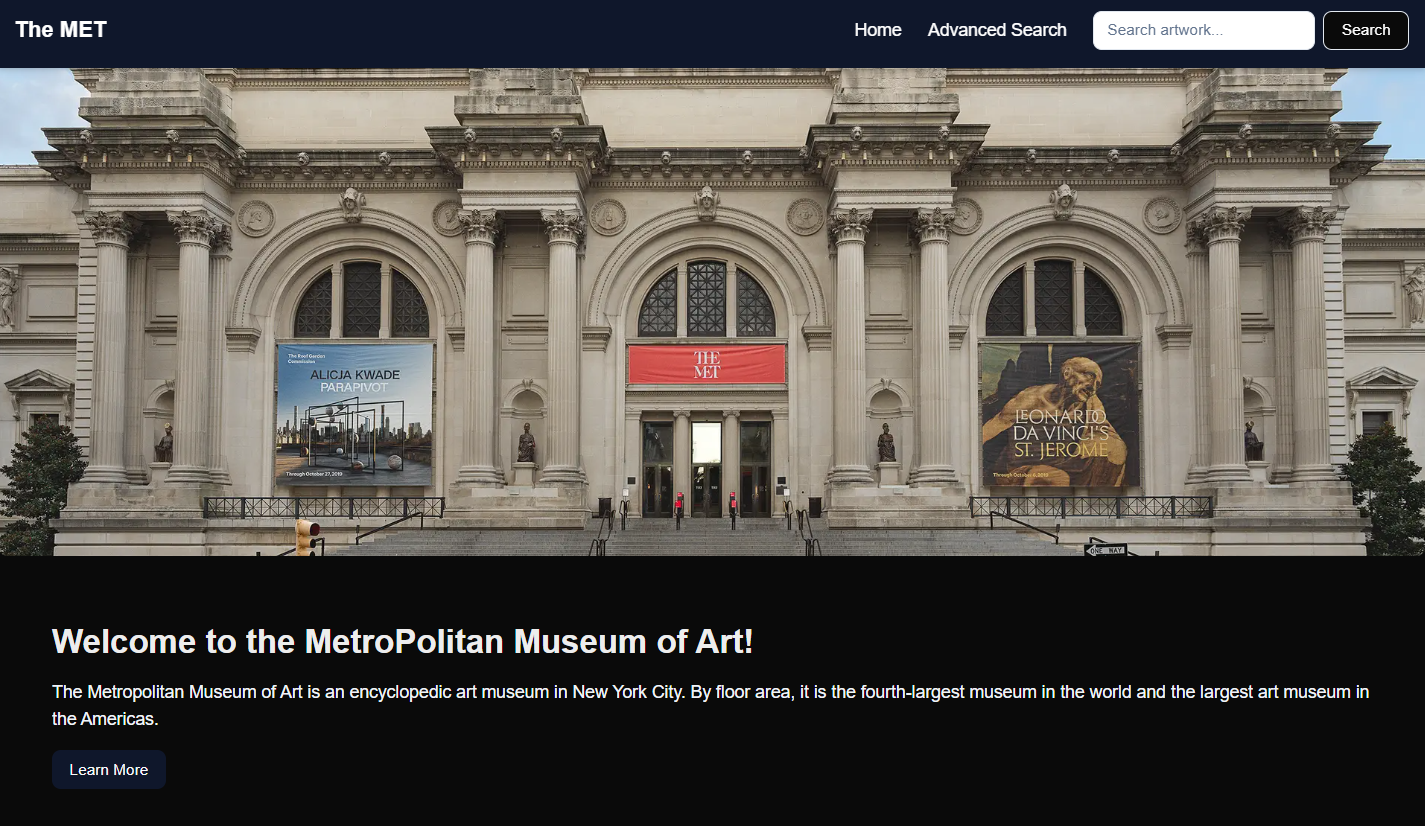
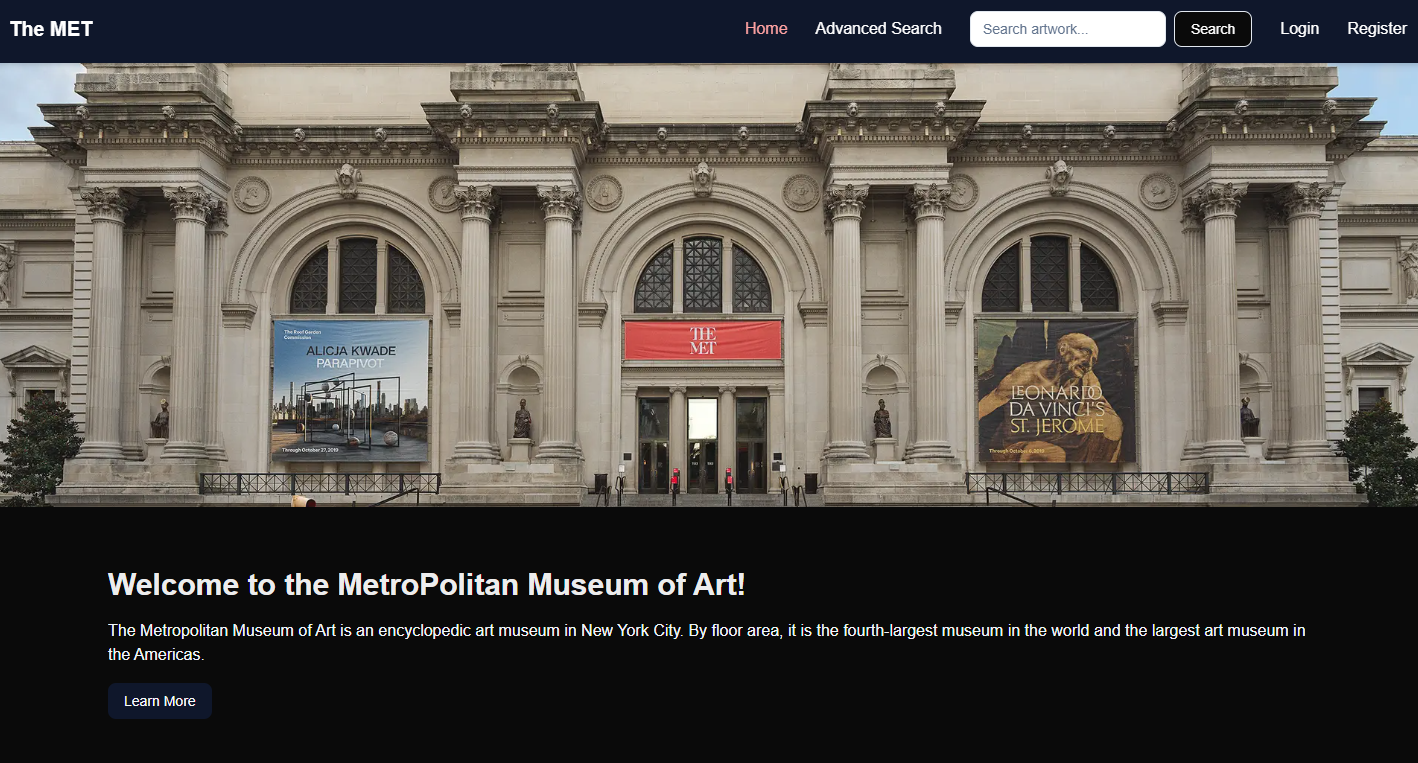
Update Readme.md to the latest version

Changed region(s): [[0.0, 0.0, 1.0, 0.6933], [0.031, 0.7536, 0.9619, 0.9646]]

diff --git a/README.md b/README.md
@@ -1,16 +1,24 @@
 # The MET — Metropolitan Museum of Art Explorer
 
-A Next.js web application for browsing and searching artwork from the [Metropolitan Museum of Art Collection API](https://metmuseum.github.io/).
+A Next.js web application for browsing and searching artwork from the [Metropolitan Museum of Art Collection API](https://metmuseum.github.io/), with user authentication, favourites, and search history powered by a custom REST API.
 
 ![Homepage](documentation/image/homepage.png)
 
 ## Features
 
-- **Home page** — Introduction to The Met with a hero image and a link to learn more.
-- **Quick search** — Search artwork by title directly from the navigation bar.
-- **Advanced search** — Filter artwork by title, tags, geographic location, medium, on-view status, and highlight status.
+### Browsing & Search
+- **Home page** — Hero banner introduction with a link to the full collection.
+- **Quick search** — Search artwork by title directly from the navigation bar; saved to search history when logged in.
+- **Advanced search** — Filter artwork by title, tags, geographic location, medium, on-view status, and highlight status; also saved to search history when logged in.
 - **Artwork gallery** — Paginated grid of results (12 per page) fetched from the Met Collection API.
-- **Artwork detail page** — Full details for a single artwork including image, artist, date, classification, medium, credit line, and dimensions, with a link to the artist's Wikidata page.
+- **Artwork detail page** — Full details for a single artwork: image, artist, date, classification, medium, credit line, and dimensions, with a link to the artist's Wikidata page.
+
+### Authentication & User Features
+- **Register / Login** — JWT-based authentication backed by a custom Express API (hosted on Vercel).
+- **Favourites** — Add or remove artworks from a personal favourites list, persisted to the backend.
+- **Search history** — Every quick and advanced search is recorded and viewable on the History page.
+- **Route guard** — `/favourites` and `/history` redirect unauthenticated users to the login page.
+- **Sign-in alert** — Attempting to favourite an artwork while logged out shows an inline alert.
 
 ## Tech Stack
 
@@ -21,18 +29,27 @@ A Next.js web application for browsing and searching artwork from the [Metropoli
 | [Tailwind CSS 4](https://tailwindcss.com) | Styling |
 | [shadcn/ui](https://ui.shadcn.com) | UI component primitives (Radix UI) |
 | [SWR](https://swr.vercel.app) | Data fetching and caching |
-| [React Hook Form](https://react-hook-form.com) | Advanced search form handling |
+| [Jotai](https://jotai.org) | Global client state (favourites, history, alerts) |
+| [React Hook Form](https://react-hook-form.com) | Form handling and validation |
+| [jwt-decode](https://github.com/auth0/jwt-decode) | Decoding JWT tokens client-side |
+| [react-icons](https://react-icons.github.io/react-icons/) | Hamburger / close icons in mobile nav |
 | [Met Collection API](https://metmuseum.github.io/) | Artwork data source |
 
 ## Getting Started
 
-Install dependencies:
+1. Install dependencies:
 
 ```bash
 npm install
 ```
 
-Run the development server:
+2. Create a `.env.local` file in the project root and set the API URL, You can find the backend at [Express_Backend_Museum](https://github.com/Yuhan-Zhao-Aiden/Express_Backend_Museum)
+
+```env
+NEXT_PUBLIC_API_URL=<your-backend-url>
+```
+
+3. Run the development server:
 
 ```bash
 npm run dev
@@ -44,18 +61,30 @@ Open [http://localhost:3000](http://localhost:3000) in your browser.
 
 ```
 pages/
-  index.jsx           # Home page
-  search.jsx          # Advanced search form
+  index.jsx             # Home page
+  search.jsx            # Advanced search form
+  login.jsx             # Login page
+  register.jsx          # Registration page
+  favourites.jsx        # Saved favourites (protected)
+  history.jsx           # Search history (protected)
   artwork/
-    index.jsx         # Paginated artwork results grid
-    [objectId].jsx    # Individual artwork detail page
+    index.jsx           # Paginated artwork results grid
+    [objectId].jsx      # Individual artwork detail page
 components/
-  Hero.jsx            # Hero image banner
-  MainNav.jsx         # Top navigation with quick search
-  ArtworkCard.jsx     # Artwork thumbnail card
-  ArtworkCardDetail.jsx # Full artwork detail card
+  Hero.jsx              # Hero image banner
+  MainNav.jsx           # Top navigation with quick search and auth-aware links
+  NavLink.jsx           # Active-aware navigation link
+  UserNav.jsx           # Dropdown menu for logged-in users
+  RouteGuard.jsx        # Redirects unauthenticated users from protected routes
+  SigninAlert.jsx       # Alert banner for unauthenticated actions
+  ArtworkCard.jsx       # Artwork thumbnail card
+  ArtworkCardDetail.jsx # Full artwork detail card with favourite toggle
   ArtworkPagination.jsx # Pagination controls
-  ui/                 # shadcn/ui components
+  ui/                   # shadcn/ui components
+lib/
+  authenticate.js       # JWT helpers and auth API calls (register, login)
+  userData.js           # User data API calls (favourites, history)
+store.js                # Jotai atoms for global state
 ```
 
 ## Available Scripts
